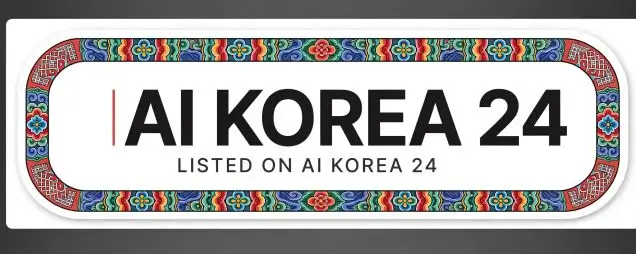
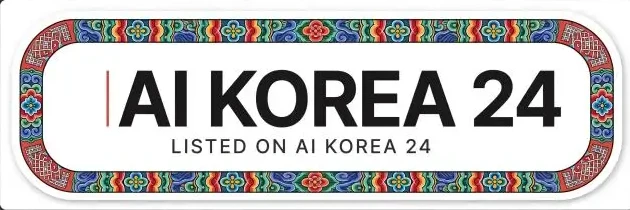
fix(aik24): 배지 이미지 다크바 제거 + 도구 목록 중복 등록 정리 + 카드/상세 이미지 영역 추가 (AIK24-L2T-BADGE-02)
- public/badges/listed-on-aikorea24.webp: crop(6,19,636,229) → 630×210 (다크바 제거, 20618B→34700B)
- tools/index.astro: D1 published 건과 md 슬러그가 중복이면 md 카드만 노출 (상세 페이지가 md 우선이므로 카드/상세 일치)
- tools/index.astro: D1 SELECT 에 screenshot_url 추가 + 카드 2종(최신 등록·전체 목록)에 이미지 있을 때만 썸네일 렌더
- tools/[id].astro: 이미지 블록이 screenshotUrl 뿐 아니라 content collection 의 image 도 읽도록 확장
- content/tools/link2threads-l2t.md: image: /badges/listed-on-aikorea24.webp 추가
- 배포: Version 8d36ae42-d3dd-4b03-9611-1f9fe8b6fe33

diff --git a/src/content/tools/link2threads-l2t.md b/src/content/tools/link2threads-l2t.md
@@ -5,6 +5,7 @@ category: "업무·생산성"
 price: "$9"
 koreanSupport: false
 difficulty: "초보자"
+image: "/badges/listed-on-aikorea24.webp"
 url: "https://link2threads.com"
 useCases: ["쓰레드 마케팅 / 쓰레드 쿠팡파트너스 / 스레드 수익화"]
 tags: ["스레드", "멀티 카드", "시간 단축", "생산성", "보름동안 390만 달성", "유튜브 요약", "뉴스"]

diff --git a/docs/state.md b/docs/state.md
@@ -1,3 +1,5 @@
+## 진행 중 (2026-10-13, AIK24-L2T-BADGE-02)
+
 ## 2026-10-13 00:34 — AIK24-CONTRAST-DISABLE-01 커밋·푸시·배포 완료 (Version `df7bc19e`)
 
 ### 한 일
